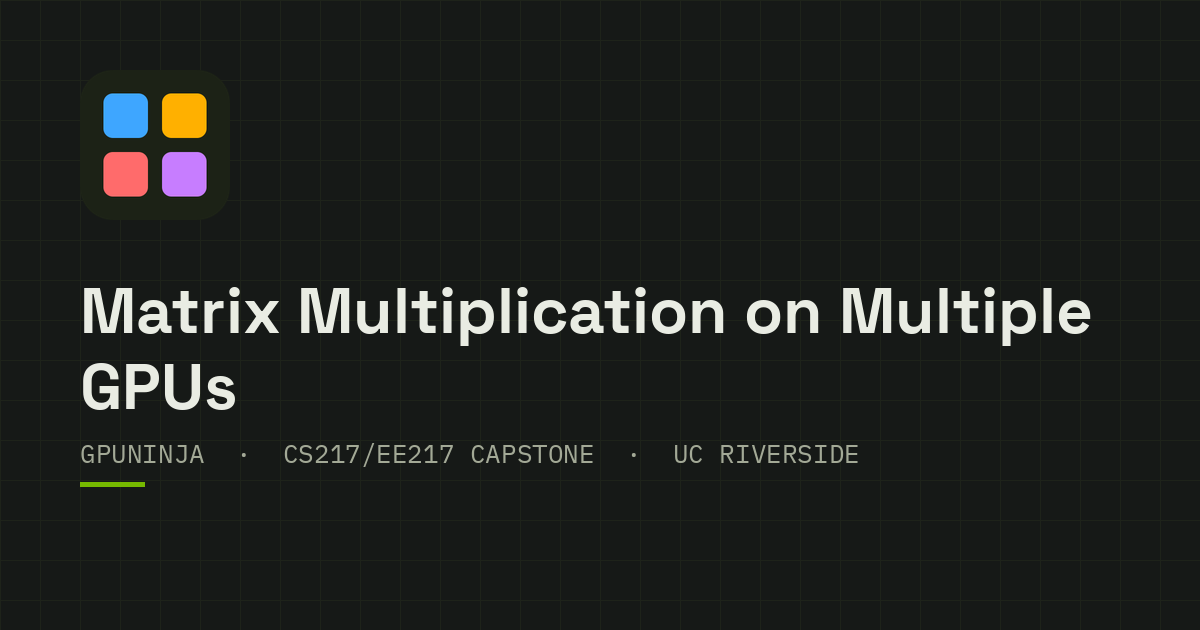
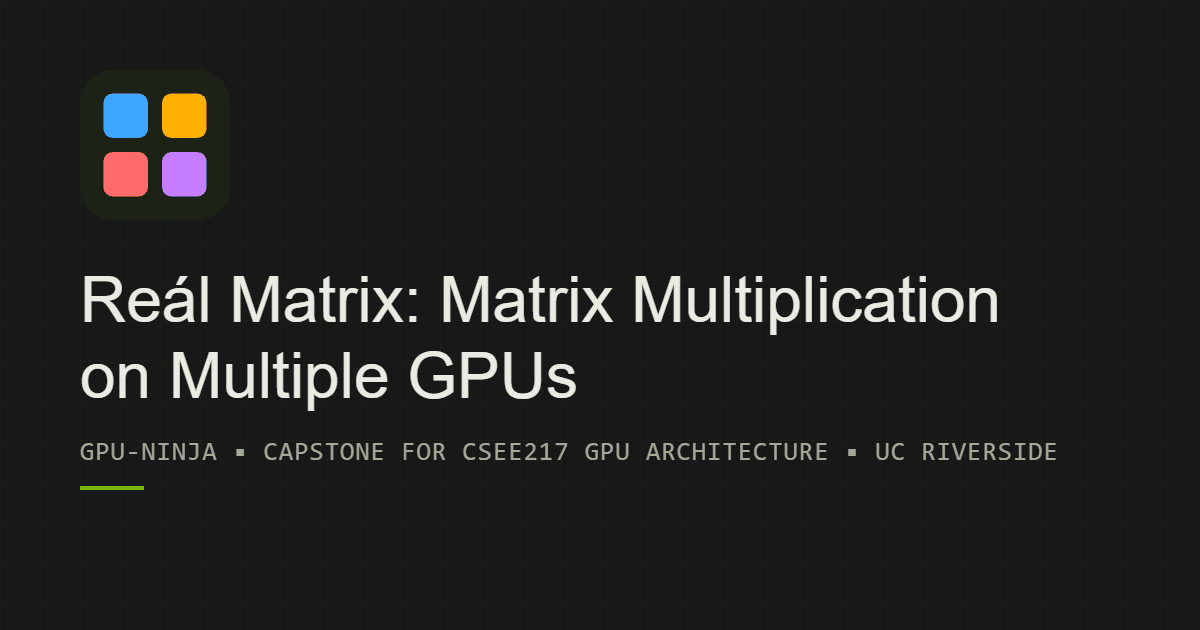
Optimize/minify assets

Changed region(s): [[0.0617, 0.4222, 0.925, 0.6635], [0.2158, 0.6937, 0.8942, 0.754], [0.0617, 0.6937, 0.185, 0.7841]]

diff --git a/index.html b/index.html
@@ -265,6 +265,7 @@
       five phases, single GPU against all four.
     </p>
 
+    <figure class="diagram">
     <table>
       <caption class="visually-hidden">Execution time by phase, single GPU vs. multi-GPU, 1000&times;1000 matrices</caption>
       <thead>
@@ -302,6 +303,7 @@
         </tr>
       </tbody>
     </table>
+    </figure>
 
     <p>
       The real win is in <em>executing the kernel</em>: 0.004720s down to

diff --git a/styles.css b/styles.css
@@ -391,7 +391,6 @@ footer nav ul {
 table {
   width: 100%;
   border-collapse: collapse;
-  margin: 1.75rem 0;
   font-size: 0.92rem;
 }
 
